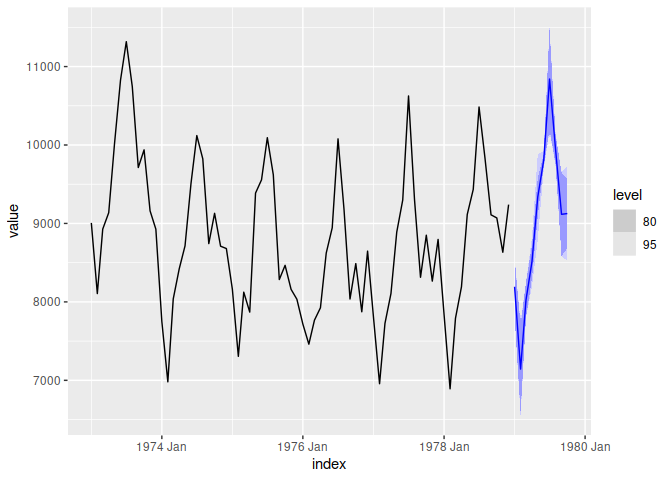
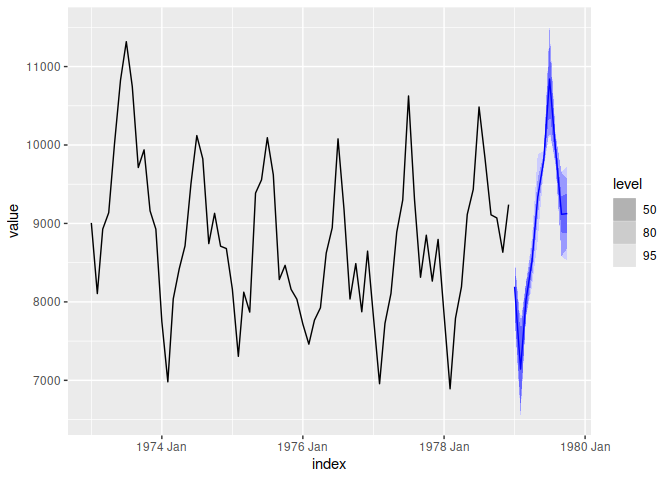
Add custom distribution for mean() to work

diff --git a/README.md b/README.md
@@ -40,24 +40,24 @@ library(fable.timegpt)
 uad <- as_tsibble(USAccDeaths)
 fc <- uad |> 
   model(TimeGPT(value)) |> 
-  forecast(h = 10, level = c(80, 95))
+  forecast(h = 10, level = c(50, 80, 95))
 fc
 #> # A fable: 10 x 4 [1M]
 #> # Key:     .model [1]
-#>    .model            index         value .mean
-#>    <chr>             <mth>        <dist> <dbl>
-#>  1 TimeGPT(value) 1979 Jan percentile[5]    NA
-#>  2 TimeGPT(value) 1979 Feb percentile[5]    NA
-#>  3 TimeGPT(value) 1979 Mar percentile[5]    NA
-#>  4 TimeGPT(value) 1979 Apr percentile[5]    NA
-#>  5 TimeGPT(value) 1979 May percentile[5]    NA
-#>  6 TimeGPT(value) 1979 Jun percentile[5]    NA
-#>  7 TimeGPT(value) 1979 Jul percentile[5]    NA
-#>  8 TimeGPT(value) 1979 Aug percentile[5]    NA
-#>  9 TimeGPT(value) 1979 Sep percentile[5]    NA
-#> 10 TimeGPT(value) 1979 Oct percentile[5]    NA
+#>    .model            index         value  .mean
+#>    <chr>             <mth>        <dist>  <dbl>
+#>  1 TimeGPT(value) 1979 Jan percentile[7]  8193.
+#>  2 TimeGPT(value) 1979 Feb percentile[7]  7143.
+#>  3 TimeGPT(value) 1979 Mar percentile[7]  8025.
+#>  4 TimeGPT(value) 1979 Apr percentile[7]  8513.
+#>  5 TimeGPT(value) 1979 May percentile[7]  9338.
+#>  6 TimeGPT(value) 1979 Jun percentile[7]  9810.
+#>  7 TimeGPT(value) 1979 Jul percentile[7] 10841.
+#>  8 TimeGPT(value) 1979 Aug percentile[7]  9946.
+#>  9 TimeGPT(value) 1979 Sep percentile[7]  9116.
+#> 10 TimeGPT(value) 1979 Oct percentile[7]  9126.
 fc |> 
-  autoplot(uad, point_forecast = list(median = median))
+  autoplot(uad, level = c(50, 80, 95))
 ```
 
 <img src="man/figures/README-example-1.png" width="100%" />
